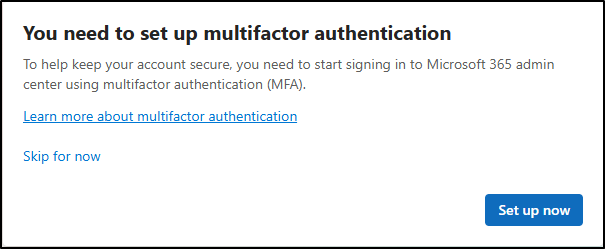
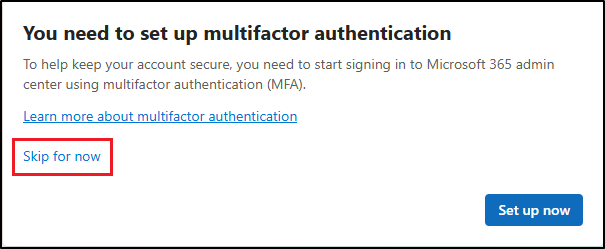
update instructions

Changed region(s): [[0.0, 0.5341, 0.2083, 0.7309]]

diff --git a/Instructions/Labs/Lab0_Ex0_Lab_Setup.md b/Instructions/Labs/Lab0_Ex0_Lab_Setup.md
@@ -48,7 +48,7 @@ In this task, you'll enable Audit in the Microsoft Purview portal to monitor por
 >
 > In some tenants, selecting **Start recording user and admin activity** might not activate Audit.  
 >
-> If this occurs, you can enable Audit through PowerShell instead:
+> If this happens, you can enable Audit through PowerShell instead:
 >
 > 1. Open an elevated Terminal window by right-clicking the Windows button and selecting **Terminal (Admin)**.  
 >
@@ -82,7 +82,7 @@ In this task, you'll enable Audit in the Microsoft Purview portal to monitor por
 >    Get-AdminAuditLogConfig | FL UnifiedAuditLogIngestionEnabled
 >    ```
 >
->    If it returns `False`, enable Audit:
+>    If it returns **_False_**, enable Audit:
 >
 >    ```powershell
 >    Set-AdminAuditLogConfig -UnifiedAuditLogIngestionEnabled $true
@@ -94,7 +94,7 @@ In this task, you'll enable Audit in the Microsoft Purview portal to monitor por
 >    Get-AdminAuditLogConfig | FL UnifiedAuditLogIngestionEnabled
 >    ```
 >
->    The command should return `True` once Audit is active.
+>    The command should return **_True_** once Audit is active.
 
 You have successfully enabled auditing in Microsoft 365.
 
@@ -146,7 +146,9 @@ In this task, you'll set passwords for the user accounts needed for the labs.
 
 1. Open **Microsoft Edge** and navigate to **`https://admin.microsoft.com`** to log into the Microsoft 365 admin center as the MOD Administrator, `admin@WWLxZZZZZZ.onmicrosoft.com` (where ZZZZZZ is your unique tenant ID provided by your lab hosting provider).
 
-> [!note] **Note**: In some tenants, you might see a Portal MFA Enforcement prompt when signing in. If this prompt appears:
+> [!note] **Skip MFA for the Microsoft 365 Admin center**
+>
+> In some tenants, you might see a Portal MFA Enforcement prompt when signing in. If this prompt appears:
 >
 > - Select **Skip for now** to temporarily delay MFA setup.
 >
@@ -190,7 +192,9 @@ In this task, you'll open Microsoft Defender and wait for Microsoft Defender XDR
 
 1. From the navigation pane, select **Investigation & response** > **Incidents & alerts** > **Incidents**.
 
-> [!note] **Note**: The Microsoft Defender XDR initialization screen might or might not appear depending on your lab tenant. If it appears, you can continue with other tasks while it completes in the background.
+> [!note] **Initialize Microsoft Defender XDR**
+>
+> The Microsoft Defender XDR initialization screen might or might not appear depending on your lab tenant. If it appears, you can continue with other tasks while it completes in the background.
 
 1. You'll see a message stating that Microsoft Defender XDR is being prepared. This process runs automatically and might take a few minutes.
 
